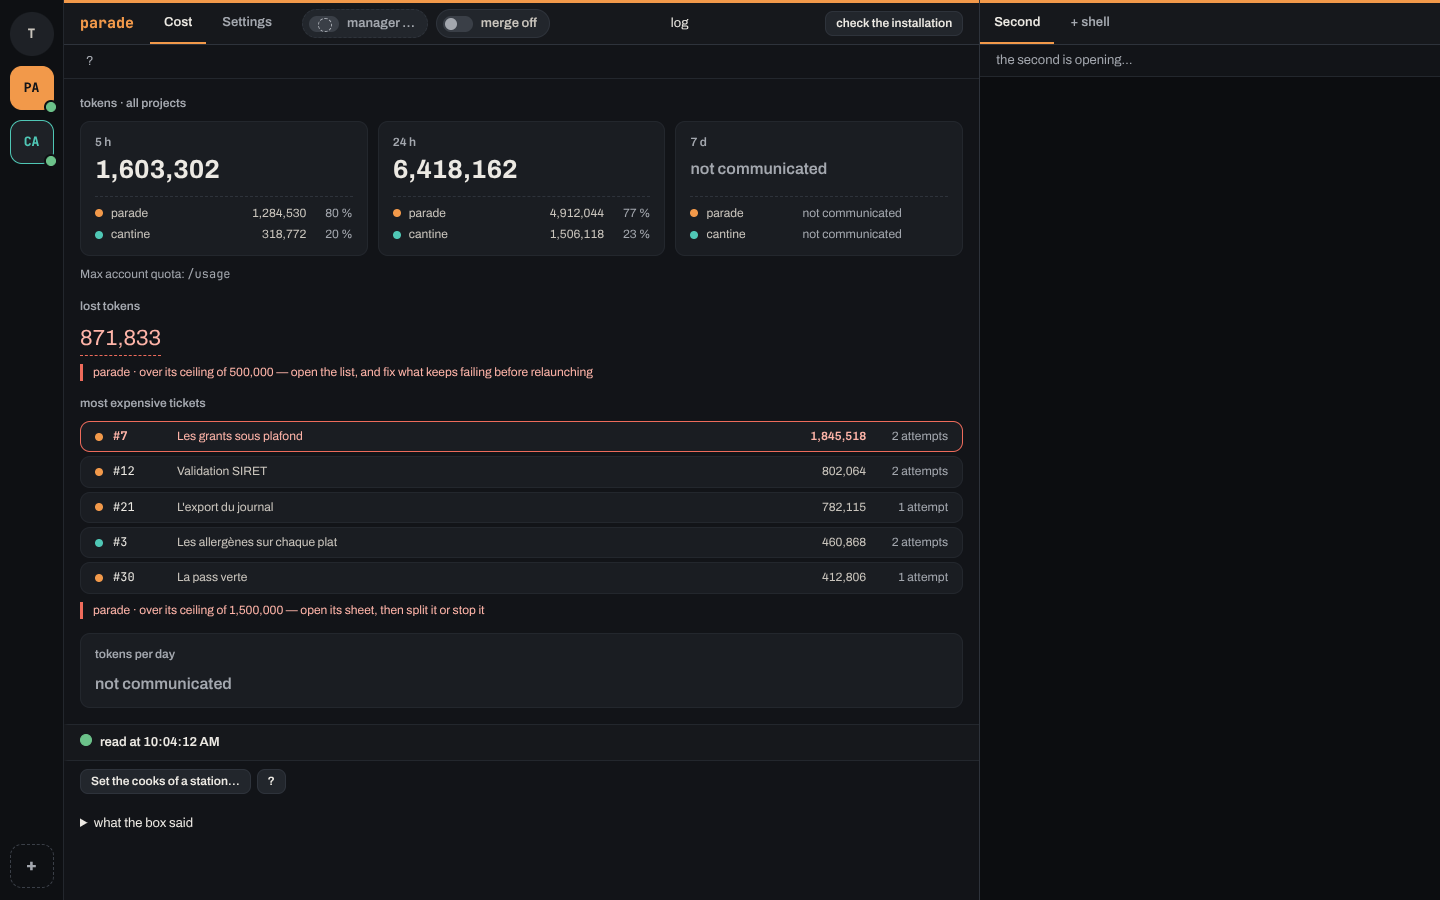
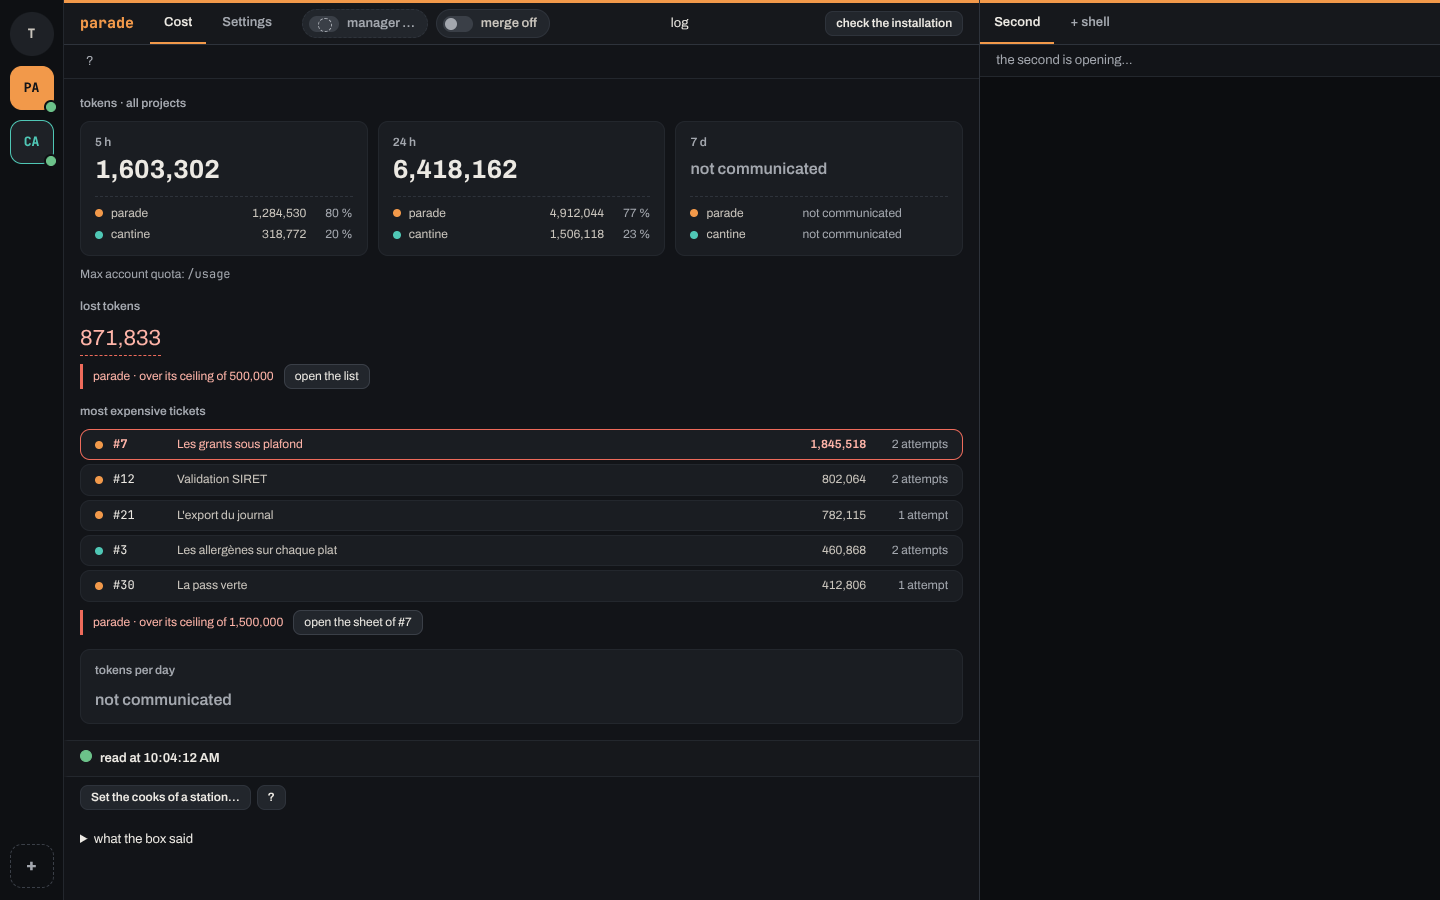
fix(#912): le geste de la ligne d'alerte de seuil est un bouton — « open the sheet of #N » ouvre la fiche, « open the list » déploie les tokens perdus

Changed region(s): [[0.0312, 0.4044, 0.4062, 0.9333], [0.5625, 0.4667, 0.6562, 0.6533]]

diff --git a/app/test/cost/seuils.test.ts b/app/test/cost/seuils.test.ts
@@ -4,7 +4,7 @@ import assert from "node:assert/strict";
 import { describe, test } from "node:test";
 import { poserChers } from "../../src/vue/cost/chers.js";
 import { poserPerdus } from "../../src/vue/cost/perdus.js";
-import { GESTE_PERDUS, GESTE_TICKET, seuilsDe } from "../../src/vue/cost/seuils.js";
+import { OUVRIR_LA_LISTE, seuilsDe } from "../../src/vue/cost/seuils.js";
 import { NON_COMMUNIQUE } from "../../src/vue/cost/tete.js";
 import { Faux } from "../aides/fausse-vue.ts";
 
@@ -28,8 +28,10 @@ const station = (ticket: string | null, perdus: string | null) =>
   ].join("\n");
 const PROJETS = [{ nom: "parade" }];
 const lectures = (texte: string) => new Map([["parade", { projet: "parade", demande: 0, a: A, sorties: [{ commande: "station", texte }] }]]);
-const chers = (texte: string) => poserChers(doc, PROJETS, lectures(texte), () => "un titre", () => {});
-const perdus = (texte: string) => poserPerdus(doc, PROJETS, lectures(texte), () => "un titre", false, () => {});
+const ouvertes: unknown[][] = [];
+const chers = (texte: string) => poserChers(doc, PROJETS, lectures(texte), () => "un titre", (...args: unknown[]) => void ouvertes.push(args.slice(0, 2)));
+let bascules = 0;
+const perdus = (texte: string) => poserPerdus(doc, PROJETS, lectures(texte), () => "un titre", false, () => void bascules++);
 const alertes = (bloc: Faux) => bloc.dessous("p").filter((p) => p.className.startsWith("alerte-cout"));
 
 describe("les seuils que `station` écrit", () => {
@@ -43,11 +45,16 @@ describe("les seuils que `station` écrit", () => {
 describe("le ticket le plus cher", () => {
   test("au-dessus du seuil : son bloc est mis en évidence, une ligne dit le geste", () => {
     const bloc = chers(station("800000", null));
-    assert.deepEqual(bloc.dessous("button").map((b: Faux) => b.className), ["ticket-cher depasse", "ticket-cher"]);
+    assert.deepEqual(bloc.dessous("button").map((b: Faux) => b.className), ["ticket-cher depasse", "ticket-cher", "alerte-geste"]);
     const [alerte, ...autres] = alertes(bloc);
     assert.equal(autres.length, 0);
     assert.equal(alerte?.className, "alerte-cout");
-    assert.match(alerte?.textContent ?? "", new RegExp(`over its ceiling of 800,000 — ${GESTE_TICKET}$`));
+    assert.equal(alerte?.textContent, `parade · over its ceiling of 800,000${alerte?.dessous("button")[0]?.textContent}`);
+    // Le geste est un bouton, sur la ligne même : il ouvre la fiche du ticket le plus cher.
+    const [geste] = alerte?.dessous("button") ?? [];
+    assert.equal(geste?.textContent, "open the sheet of #7");
+    geste?.click();
+    assert.deepEqual(ouvertes.at(-1), ["parade", 7]);
   });
 
   test("sous le seuil : ni mise en évidence, ni ligne", () => {
@@ -70,7 +77,12 @@ describe("les tokens perdus", () => {
     const [alerte, ...autres] = alertes(bloc);
     assert.equal(autres.length, 0);
     assert.equal(alerte?.className, "alerte-cout");
-    assert.match(alerte?.textContent ?? "", new RegExp(`over its ceiling of 100,000 — ${GESTE_PERDUS}$`));
+    assert.equal(alerte?.textContent, `parade · over its ceiling of 100,000${alerte?.dessous("button")[0]?.textContent}`);
+    // Le geste est un bouton, sur la ligne même : il déploie la liste.
+    const [geste] = alerte?.dessous("button") ?? [];
+    assert.equal(geste?.textContent, OUVRIR_LA_LISTE);
+    geste?.click();
+    assert.equal(bascules, 1);
   });
 
   test("sous le seuil : ni mise en évidence, ni ligne", () => {

diff --git a/app/src/vue/cost/seuils.js b/app/src/vue/cost/seuils.js
@@ -11,8 +11,8 @@ import { NON_COMMUNIQUE } from "./tete.js";
 /** @typedef {import("../briques.js").Fabrique} Fabrique */
 /** @typedef {{ ticket: number | null, perdus: number | null }} Seuils */
 
-export const GESTE_TICKET = "open its sheet, then split it or stop it";
-export const GESTE_PERDUS = "open the list, and fix what keeps failing before relaunching";
+export const OUVRIR_LA_LISTE = "open the list";
+export const FERMER_LA_LISTE = "close the list";
 
 const GESTE = /^\s+(seuil-ticket|seuil-perdus)\s+(\d[\d\s  .,]*)$/;
 
@@ -52,9 +52,11 @@ export function seuilsDesProjets(projets, lectures) {
 const nombre = (valeur) => valeur.toLocaleString("en-US");
 
 // La ligne d'alerte, ou rien : `null` quand le bloc est sous son seuil. `depasse` : un projet au-dessus de
-// son seuil (son nom, son seuil) ; `connus` : combien de seuils sont communiqués.
-/** @param {Fabrique} doc @param {{ projet: string, seuil: number } | undefined} depasse @param {boolean} connu @param {string} geste */
-export function poserAlerte(doc, depasse, connu, geste) {
+// son seuil (son nom, son seuil) ; `connu` : au moins un seuil est communiqué. Le geste est un bouton sur la
+// ligne même : son libellé, et ce qu'il fait (`ouvrir` reçoit le bouton, que la fiche reprend au retour).
+/** @param {Fabrique} doc @param {{ projet: string, seuil: number } | undefined} depasse @param {boolean} connu
+ *  @param {string} libelle @param {(bouton: any) => void} ouvrir */
+export function poserAlerte(doc, depasse, connu, libelle, ouvrir) {
   if (depasse === undefined && connu) return null;
   const ligne = doc.createElement("p");
   if (depasse === undefined) {
@@ -64,6 +66,11 @@ export function poserAlerte(doc, depasse, connu, geste) {
   }
   ligne.className = "alerte-cout";
   ligne.role = "alert";
-  ligne.textContent = `${depasse.projet} · over its ceiling of ${nombre(depasse.seuil)} — ${geste}`;
+  ligne.textContent = `${depasse.projet} · over its ceiling of ${nombre(depasse.seuil)}`;
+  const geste = doc.createElement("button");
+  geste.className = "alerte-geste";
+  geste.textContent = libelle;
+  geste.addEventListener("click", () => ouvrir(geste));
+  ligne.append(geste);
   return ligne;
 }

diff --git a/app/src/vue/cost/perdus.js b/app/src/vue/cost/perdus.js
@@ -11,7 +11,7 @@
 // la liste n'est pas proposée, et rien n'est inventé.
 // Ce module ne touche pas `document` : il reçoit de quoi créer un élément (briques.js), et rend des éléments.
 
-import { GESTE_PERDUS, poserAlerte, seuilsDesProjets } from "./seuils.js";
+import { FERMER_LA_LISTE, OUVRIR_LA_LISTE, poserAlerte, seuilsDesProjets } from "./seuils.js";
 import { LECTURE, NON_COMMUNIQUE, tokensLus } from "./tete.js";
 
 /** @typedef {import("../briques.js").Fabrique} Fabrique */
@@ -123,7 +123,7 @@ export function poserPerdus(doc, projets, lectures, titres, ouvert, bascule) {
   const depasse = depassant === undefined ? undefined : { projet: depassant.nom, seuil: /** @type {number} */ (seuils.get(depassant.nom)?.perdus) };
   if (depasse !== undefined) chiffre.className = "perdus-total depasse";
   bloc.append(cree(doc, "h2", TITRE), chiffre);
-  const alerte = typeof total === "number" ? poserAlerte(doc, depasse, connus.length > 0, GESTE_PERDUS) : null;
+  const alerte = typeof total === "number" ? poserAlerte(doc, depasse, connus.length > 0, ouvert ? FERMER_LA_LISTE : OUVRIR_LA_LISTE, bascule) : null;
   if (alerte !== null) bloc.append(alerte);
   if (lignes.length === 0) return bloc;
   chiffre.ariaExpanded = String(ouvert);

diff --git a/app/src/vue/cost/chers.js b/app/src/vue/cost/chers.js
@@ -9,7 +9,7 @@
 // quand le rail du projet est lu ; sinon « not communicated » aussi.
 // Ce module ne touche pas `document` : il reçoit de quoi créer un élément (briques.js), et rend des éléments.
 
-import { GESTE_TICKET, poserAlerte, seuilsDesProjets } from "./seuils.js";
+import { poserAlerte, seuilsDesProjets } from "./seuils.js";
 import { LECTURE, NON_COMMUNIQUE, tokensLus } from "./tete.js";
 
 /** @typedef {import("../briques.js").Fabrique} Fabrique */
@@ -127,7 +127,9 @@ export function poserChers(doc, projets, lectures, titres, ouvrir) {
     liste.append(item);
   }
   bloc.append(cree(doc, "h2", TITRE), liste);
-  const alerte = poserAlerte(doc, depasse, seuil !== null, GESTE_TICKET);
+  const alerte = depasse === undefined || premier === undefined
+    ? poserAlerte(doc, depasse, seuil !== null, "", () => {})
+    : poserAlerte(doc, depasse, true, `open the sheet of #${premier.ticket}`, (bouton) => ouvrir(premier.projet.nom, premier.ticket, bouton));
   if (alerte !== null) bloc.append(alerte);
   return bloc;
 }

diff --git a/app/src/vue/vue.css b/app/src/vue/vue.css
@@ -2927,3 +2927,13 @@ button.recommande {
   color: var(--discret);
   border-left-color: var(--trait-fort);
 }
+.alerte-cout .alerte-geste {
+  margin: 0 0 0 10px;
+  padding: 3px 10px;
+  font-size: 12px;
+  color: var(--texte);
+  background: var(--bouton);
+  border: 1px solid var(--trait-fort);
+  border-radius: var(--rayon-bouton);
+  cursor: pointer;
+}

diff --git a/docs/app.md b/docs/app.md
@@ -1020,7 +1020,7 @@ par-dessus le rail ; le recliquer le ferme. Les cinq lectures ci-dessous sont ce
 de ce geste.
 **Un dépassement de seuil se voit d'un coup d'œil** (#912, `cost/seuils.js`) : les seuils sont ceux que `station` écrit sous
 « décisions du chef » (`seuil-ticket`, `seuil-perdus`), projet par projet. Quand le ticket le plus cher dépasse le seuil de son
-projet, ou que les tokens perdus d'un projet dépassent le leur, le bloc passe en rouge et **une ligne unique dit le geste** ;
+projet, ou que les tokens perdus d'un projet dépassent le leur, le bloc passe en rouge et **une ligne unique porte le geste, en bouton** (« open the sheet of #7 », « open the list ») ;
 sous le seuil, rien de plus ne s'affiche. Un seuil « non posée » n'est pas inventé : le bloc dit « ceiling: not communicated »
 à la place de l'alerte.
 
